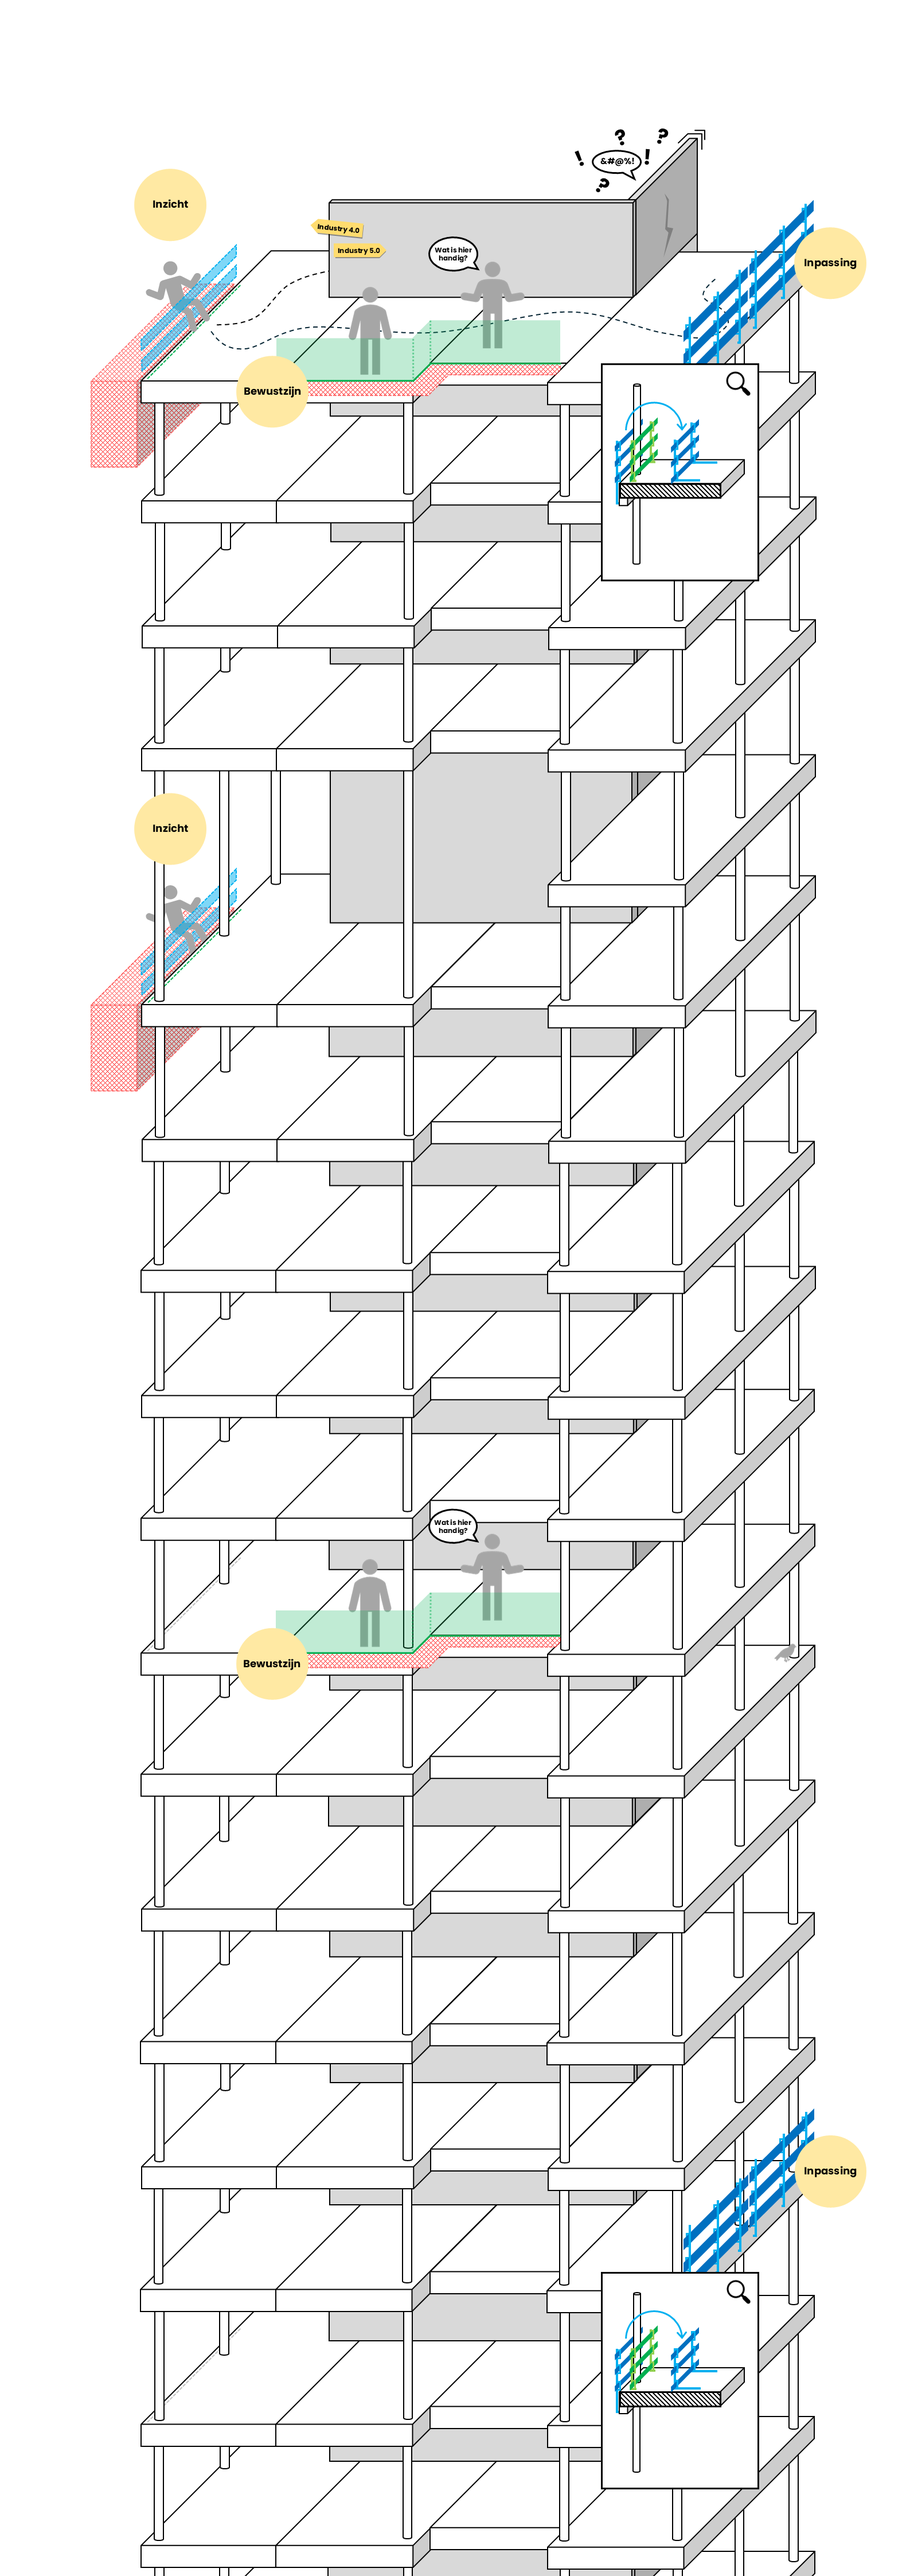
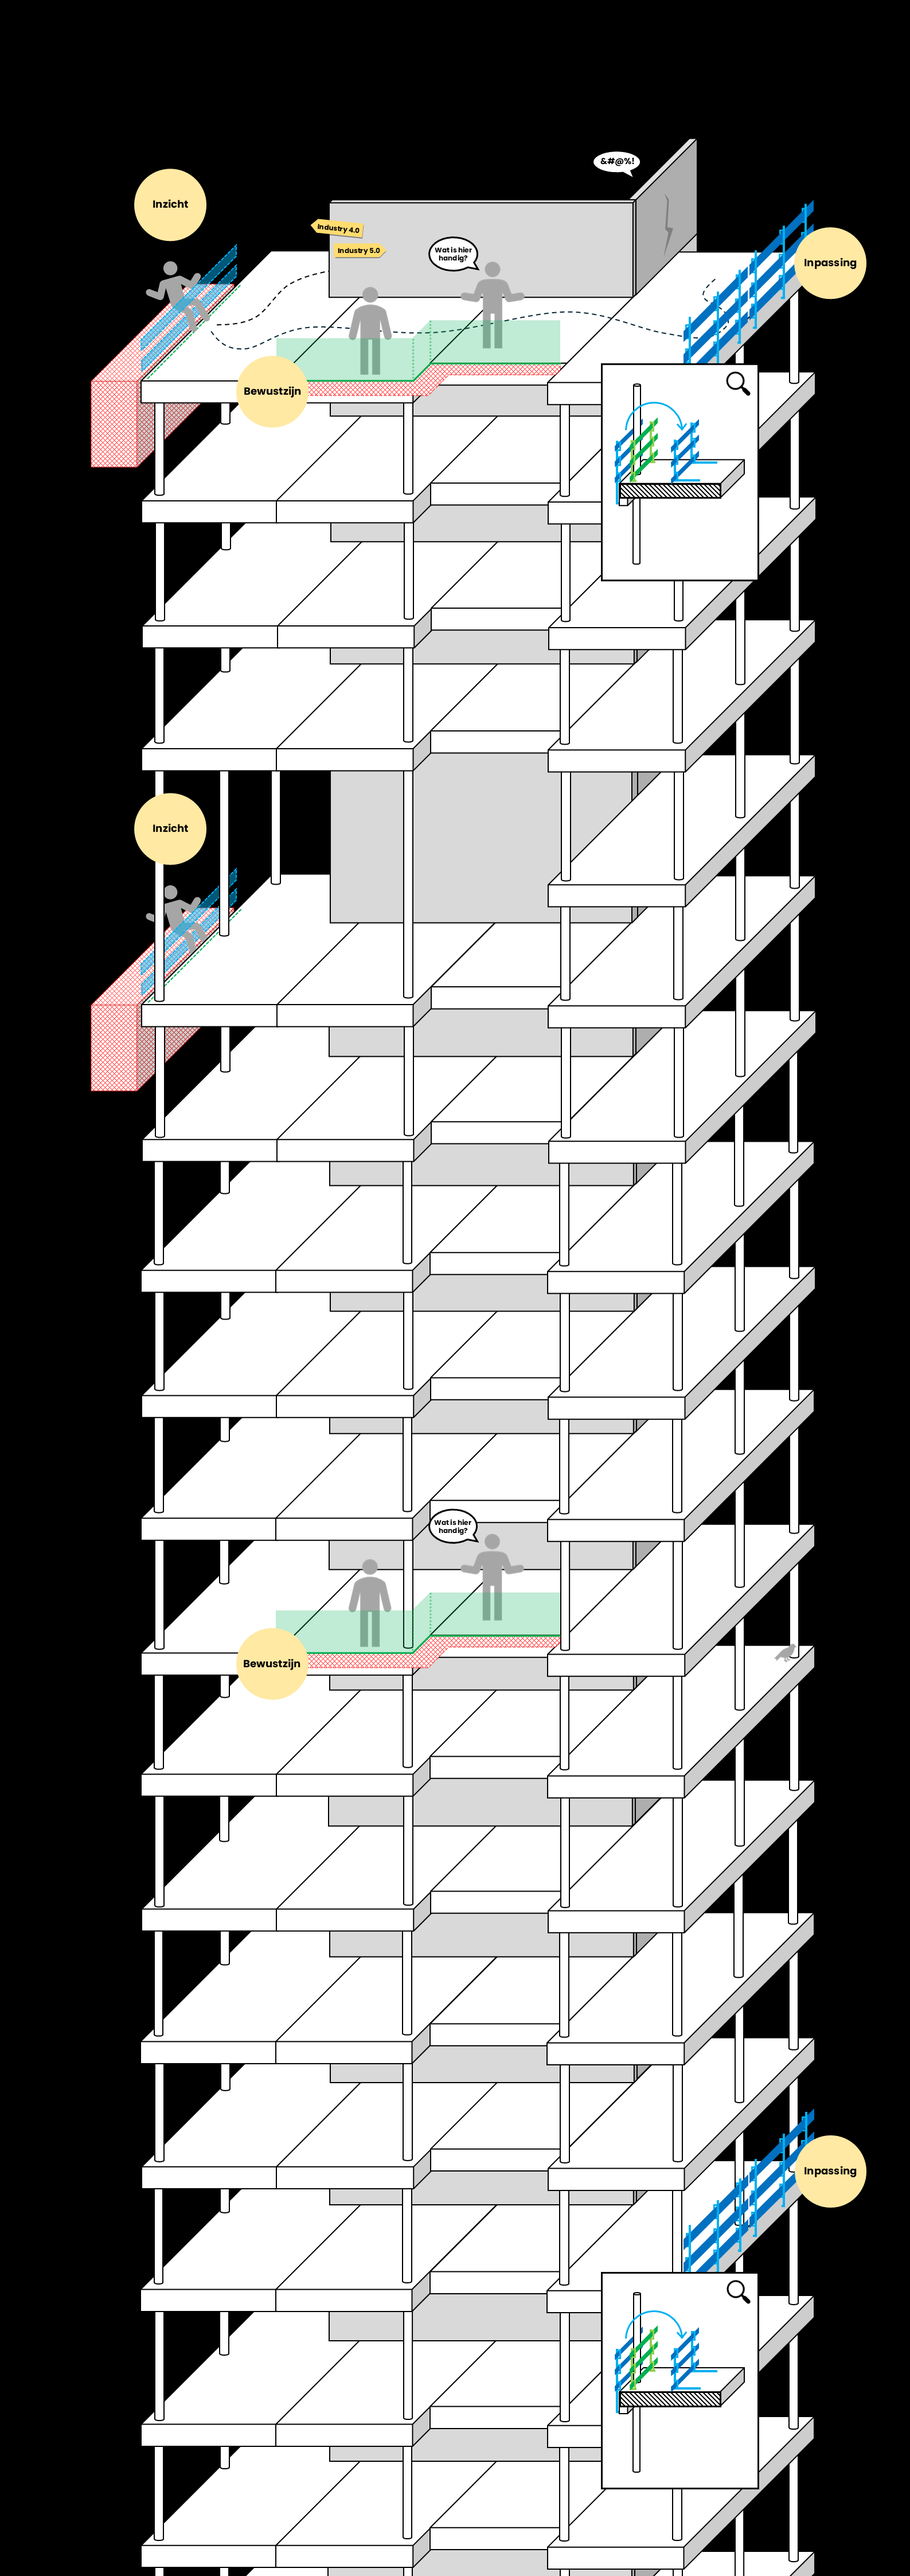
concept diagram black

diff --git a/index.html b/index.html
@@ -35,6 +35,20 @@ opacity: 1;
 transform: translateY(0px);
 
 }
+
+section {
+  position: relative;
+  z-index: 1;
+}
+
+body {
+  color: #111;
+}
+
+h1, h2, p {
+  color: inherit;
+}
+
 </style>
 
 </head>
@@ -124,13 +138,13 @@ transform: translateY(0px);
 <div class="sticky top-0 h-screen flex">
 
 <!-- LEFT TEXT -->
-<div class="w-1/3 flex items-center pl-16 relative">
+<div class="w-1/3 flex items-center pl-16 relative bg-black text-white">
 
 <div class="scroll-step active">
 <h2 class="text-4xl font-semibold mb-6">
 Automatische randdetectie
 </h2>
-<p class="text-lg text-gray-500">
+<p class="text-lg text-gray-300">
 EdgeProtector detecteert vloerranden automatisch binnen IFC-modellen.
 </p>
 </div>
@@ -139,7 +153,7 @@ EdgeProtector detecteert vloerranden automatisch binnen IFC-modellen.
 <h2 class="text-4xl font-semibold mb-6">
 Herkenning van sparingen
 </h2>
-<p class="text-lg text-gray-500">
+<p class="text-lg text-gray-300">
 Openingen en sparingen worden zichtbaar voordat uitvoering start.
 </p>
 </div>
@@ -148,7 +162,7 @@ Openingen en sparingen worden zichtbaar voordat uitvoering start.
 <h2 class="text-4xl font-semibold mb-6">
 Visueel inzicht voor ontwerpteams
 </h2>
-<p class="text-lg text-gray-500">
+<p class="text-lg text-gray-300">
 Ontwerpers zien direct waar randbeveiliging nodig is.
 </p>
 </div>
@@ -157,7 +171,7 @@ Ontwerpers zien direct waar randbeveiliging nodig is.
 <h2 class="text-4xl font-semibold mb-6">
 Industry 5.0 samenwerking
 </h2>
-<p class="text-lg text-gray-500">
+<p class="text-lg text-gray-300">
 Menselijke expertise gecombineerd met automatische analyse.
 </p>
 </div>
@@ -166,12 +180,12 @@ Menselijke expertise gecombineerd met automatische analyse.
 
 
 <!-- RIGHT IMAGE VIEWPORT -->
-<div class="w-2/3 h-screen overflow-hidden relative">
+<div class="w-2/3 h-screen overflow-hidden relative bg-black flex items-center justify-center">
 
 <img
 id="scroll-image"
 src="05_images/edgeprotector-concept.png"
-class="absolute top-0 left-0 w-full h-[400vh] object-cover"
+class="max-h-[90vh] w-auto object-contain opacity-95"
 />
 
 </div>
@@ -189,7 +203,7 @@ class="absolute top-0 left-0 w-full h-[400vh] object-cover"
       Hoe werkt het
     </h2>
 
-    <div class="text-xl text-gray-500 space-y-4">
+    <div class="text-xl text-gray-300 space-y-4">
 
       <p>Open een IFC-model</p>
       <p>Start EdgeProtector scan</p>
@@ -210,7 +224,7 @@ class="absolute top-0 left-0 w-full h-[400vh] object-cover"
       Voor wie is EdgeProtector
     </h2>
 
-    <div class="text-xl text-gray-500 space-y-4">
+    <div class="text-xl text-gray-300 space-y-4">
 
       <p>BIM</p>
       <p>Aannemers</p>
@@ -259,6 +273,8 @@ imageHeight = image.offsetHeight - window.innerHeight;
 
 window.addEventListener("load", updateImageHeight);
 window.addEventListener("resize", updateImageHeight);
+
+updateImageHeight();
 
 window.addEventListener("scroll", () => {
 
